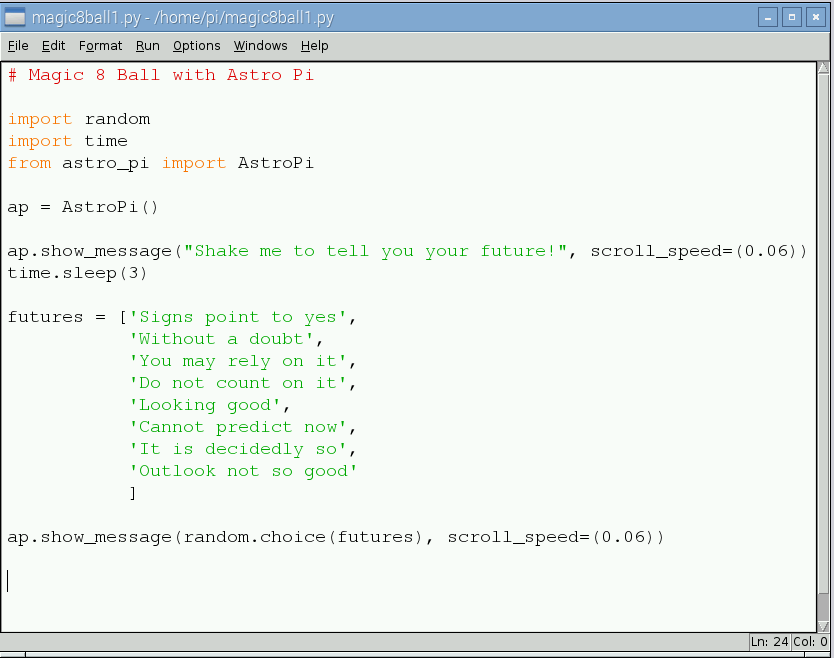
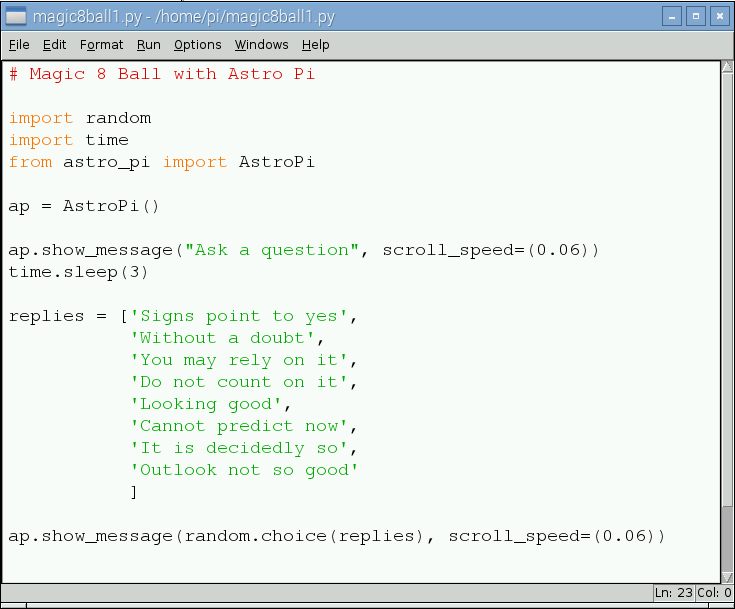
Update images

diff --git a/code/magic8ball1.py b/code/magic8ball1.py
@@ -6,10 +6,10 @@ from astro_pi import AstroPi
 
 ap = AstroPi()
 
-ap.show_message("Shake me to tell you your future!", scroll_speed=(0.06))
+ap.show_message("Ask a question", scroll_speed=(0.06))
 time.sleep(3)
 
-futures = ['Signs point to yes',
+replies = ['Signs point to yes',
            'Without a doubt',
            'You may rely on it',
            'Do not count on it',
@@ -19,4 +19,8 @@ futures = ['Signs point to yes',
            'Outlook not so good'
            ]
 
-ap.show_message(random.choice(futures), scroll_speed=(0.06))
+ap.show_message(random.choice(replies), scroll_speed=(0.06))
+
+
+
+

diff --git a/code/magic8ball.py b/code/magic8ball.py
@@ -3,10 +3,10 @@
 import random
 import time
 
-print("Shake me to tell you your future")
+print("Ask a question")
 time.sleep(3)
 
-futures = ['Signs point to yes',
+replies = ['Signs point to yes',
            'Without a doubt',
            'You may rely on it',
            'Do not count on it',
@@ -16,4 +16,6 @@ futures = ['Signs point to yes',
            'Outlook not so good'
            ]
 
-print(random.choice(futures))
+print(random.choice(replies))
+
+

diff --git a/worksheet.md b/worksheet.md
@@ -11,6 +11,9 @@ A great way to write your code and test it in intervals is to use IDLE 3, a deve
 1. Open a Terminal window by clicking on the **Main Menu**, followed by **Accessories** and then **Terminal**.
 
 	![terminal icon](images/terminal-icon.png)
+	
+1. Type `sudo idle3 &` and press **enter** on the keyboard to lanch IDLE 3 as the super user. This gives you super powers when running your program so that you can control your sense HAT.	
+ 	![](images/launch-idle.png)
 
 1. Once the Python Shell window has loaded, click on **File** and **New Window**. This will open a text editor window in which you can write, save and test your code.
 
@@ -70,31 +73,12 @@ A good way to start your Magic 8 ball program is to first create a text version 
 
 	```python
 	print(random.choice(replies))
+	```
 	
 1. Save your code by clicking on **File** and **Save**. Then run your program to test it works by clicking on **Run** and **Run Module**. You should see a similar output in the IDLE 3 sheel window:	
 	
 	![](images/step1-code-output.png) 			
 
 
-
 ## The Next Step
 
-Now we've done X, we'll do Y.
-
-1. First do A
-
-1. Then do B
-
-1. Now do C in code:
-
-    ```python
-    print("Hello world")
-    ```
-
-    In Python the `print` function is something
-
-1. Now do D
-
-1. Now do Y
-
-Now we have X and Y
